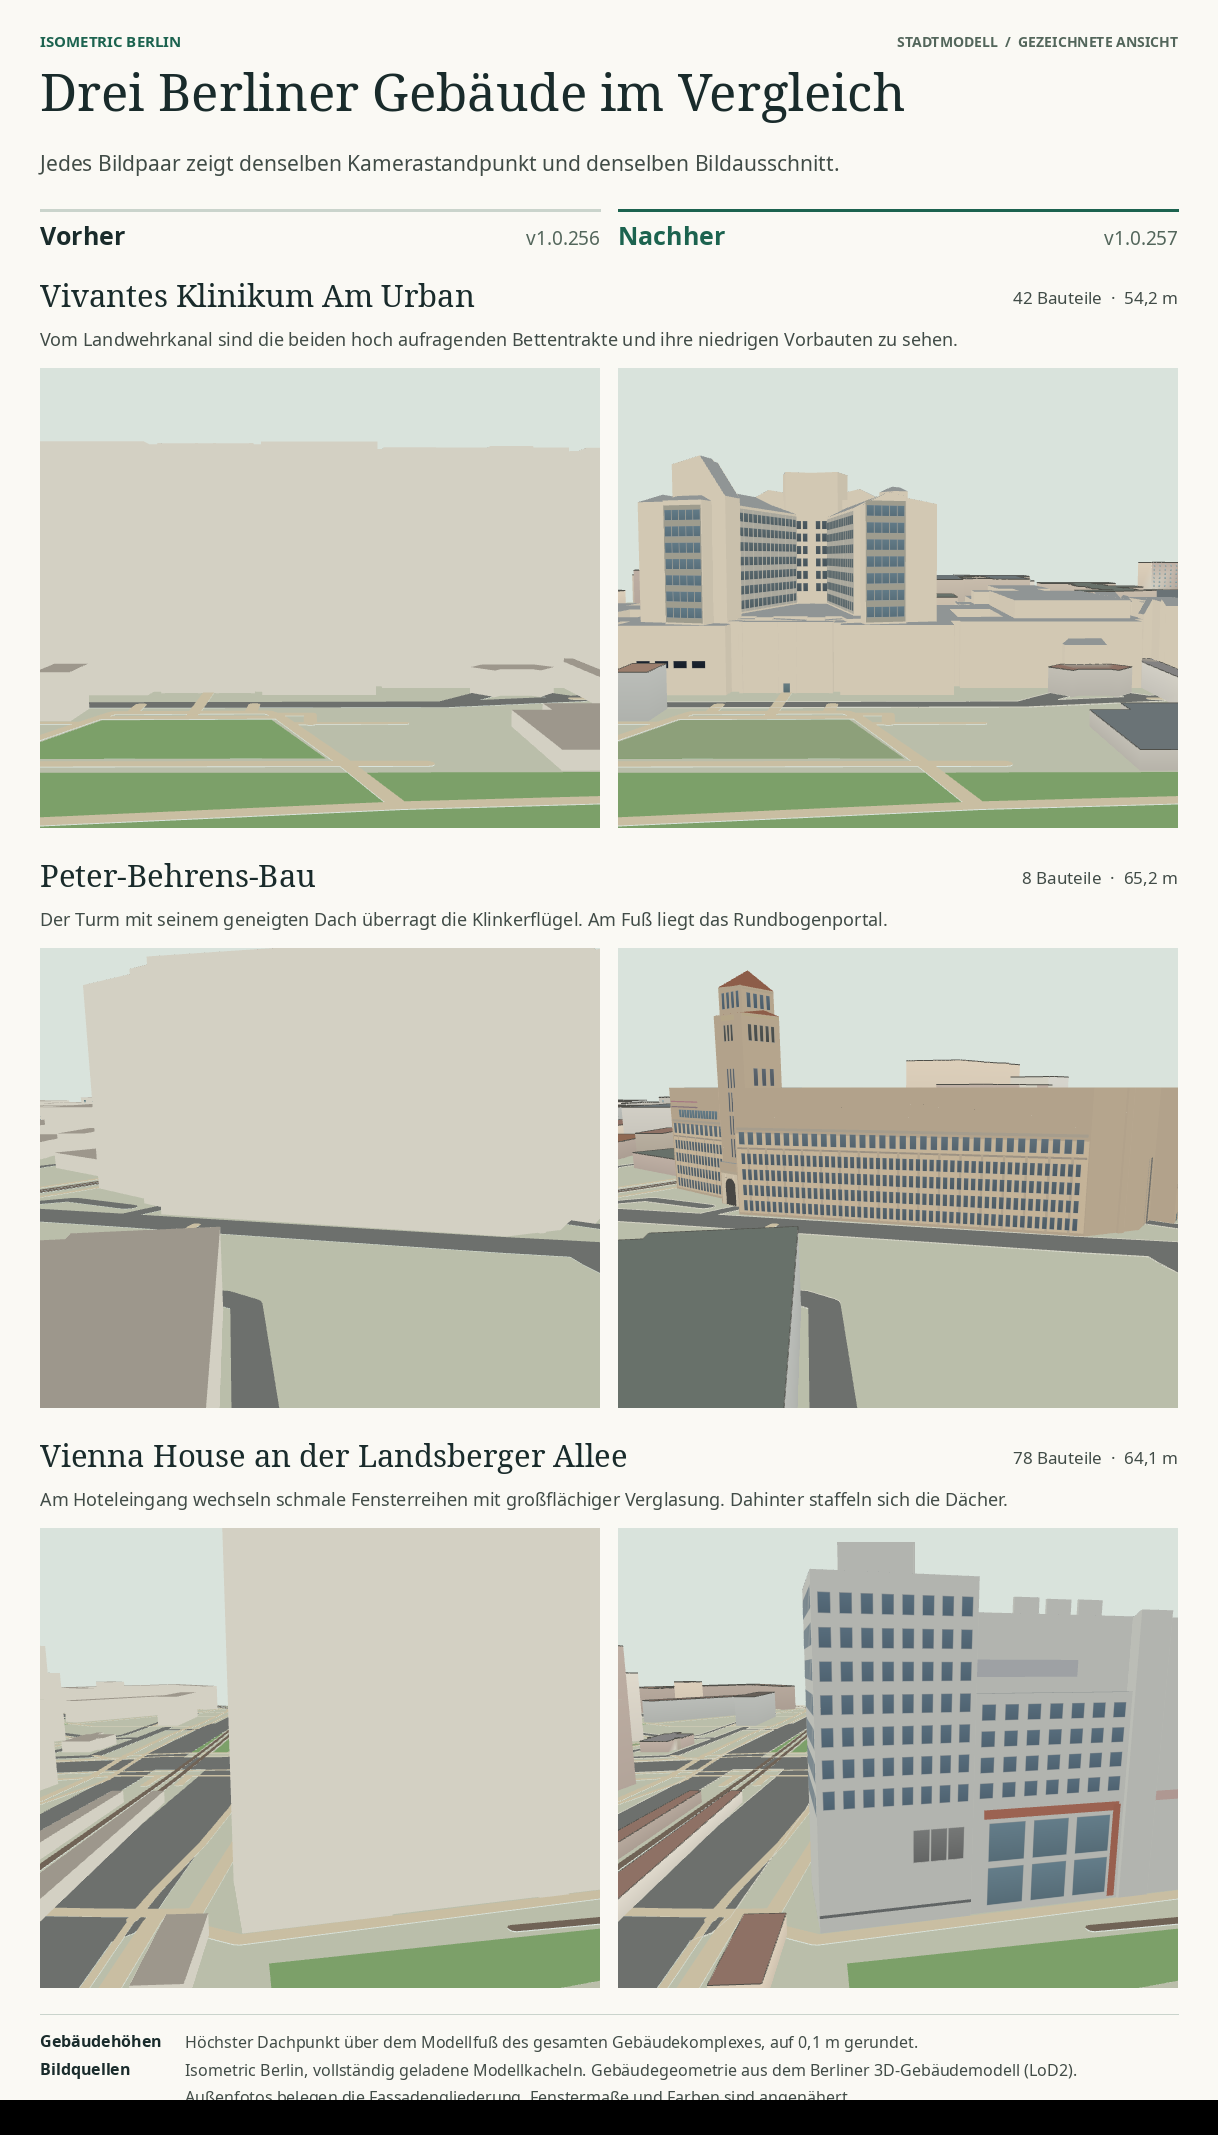
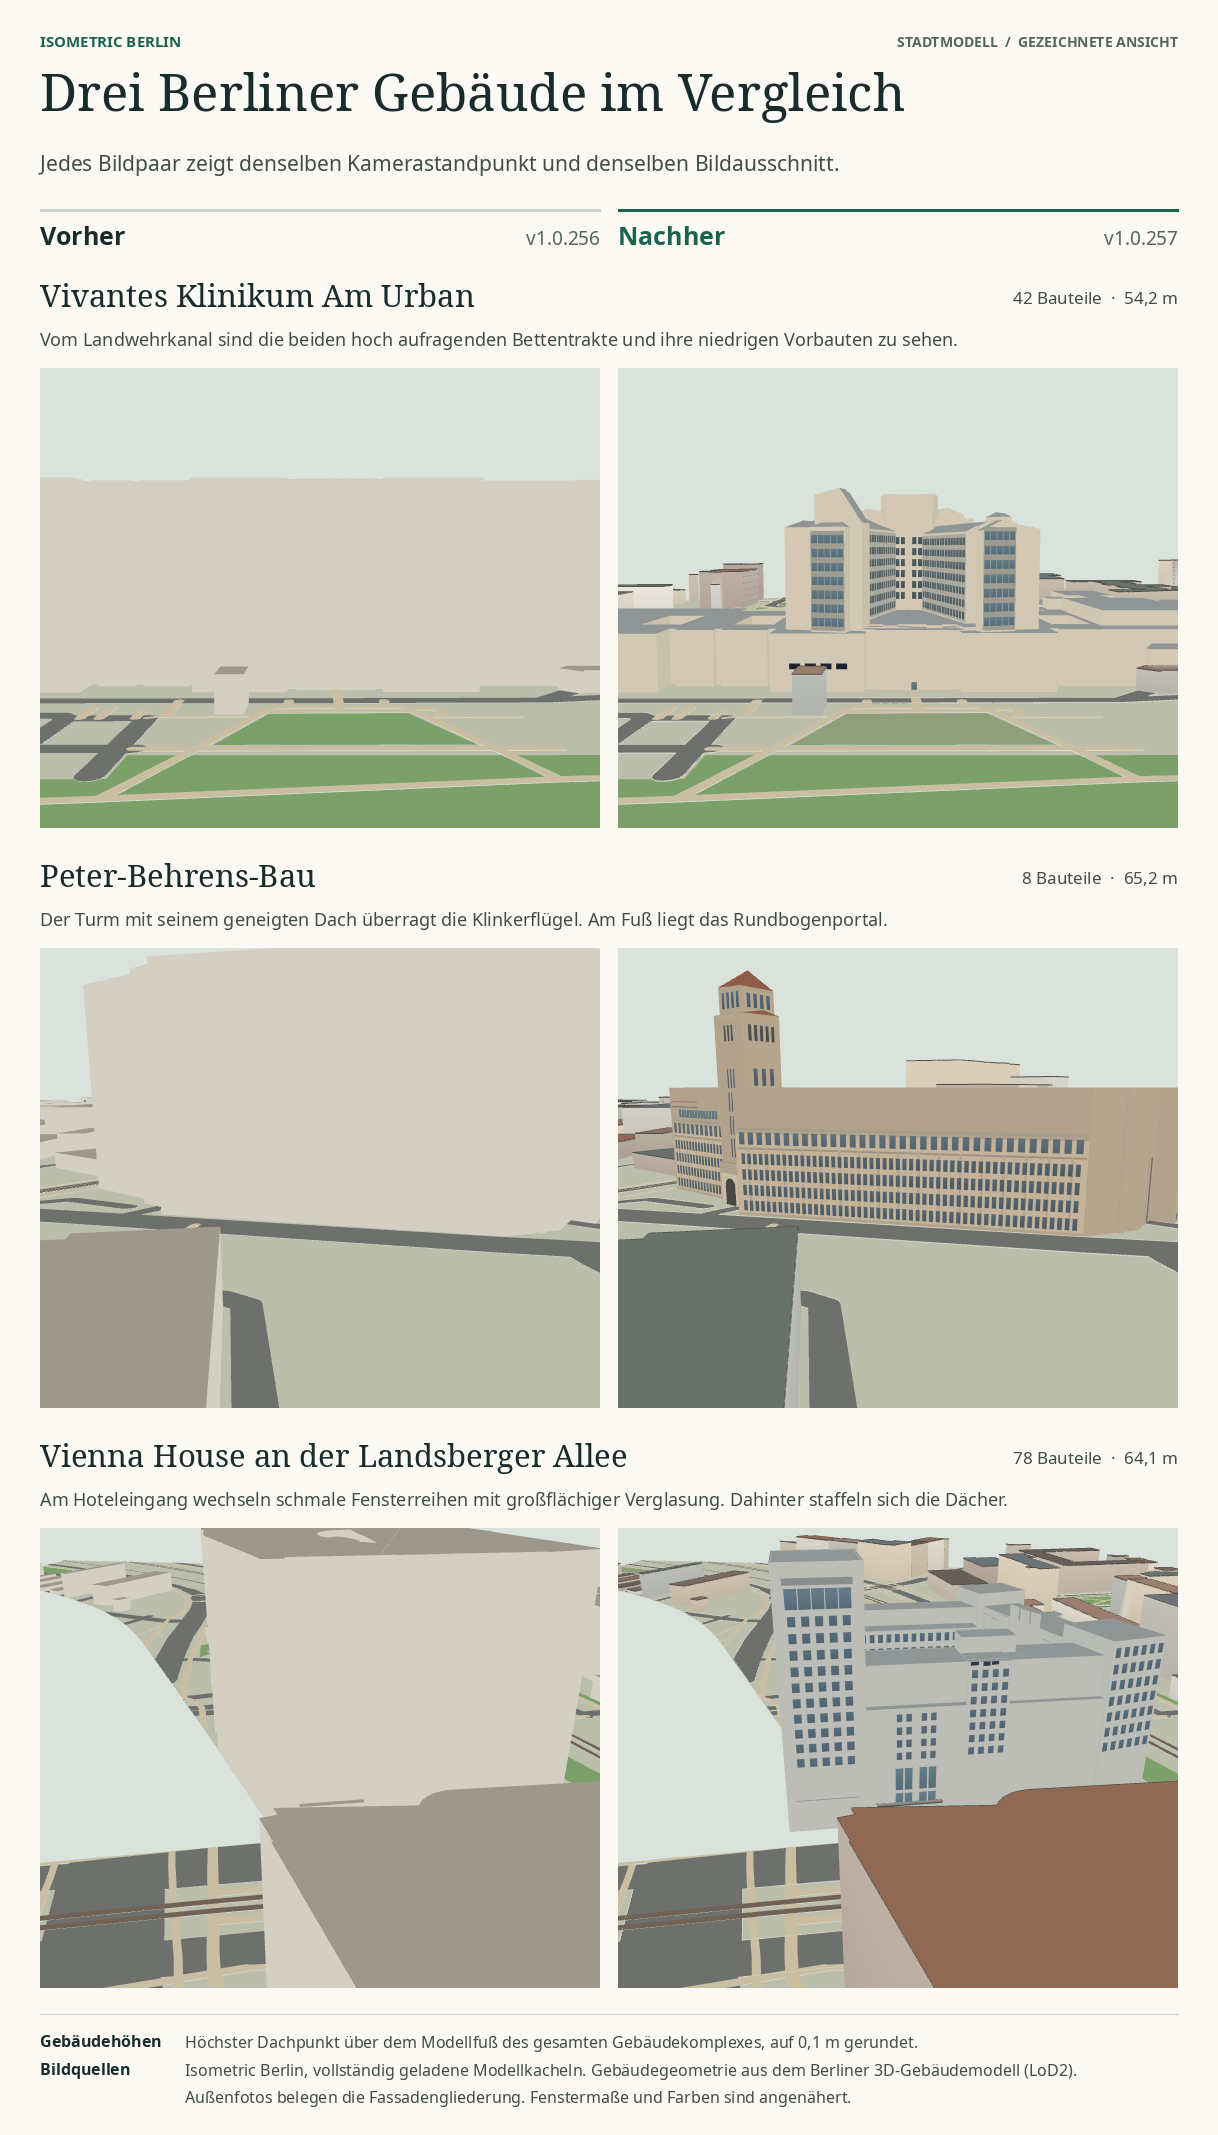
Show the complete surveyed buildings and verify the released camera links

Changed region(s): [[0.0, 0.711, 1.0, 1.0], [0.0312, 0.2164, 0.9672, 0.4019], [0.0312, 0.1855, 0.4992, 0.2473]]

diff --git a/docs/grosse-gebaeude-fassaden-v377.md b/docs/grosse-gebaeude-fassaden-v377.md
@@ -26,7 +26,7 @@ Drei Direktansichten öffnen die Kamera an einer bearbeiteten Außenwand. [Klini
 
 ![Drei Ansichten vor und nach der Fassadenüberarbeitung, einschließlich des abgestuften Turms des Peter-Behrens-Baus](grosse-gebaeude-vorher-nachher-v377.webp)
 
-Für alle 50 Gebäude wurde die Änderung mit derselben Kamera in der gezeichneten Ansicht und im Blockmodus gerendert. In allen 100 Bildpaaren waren an dem jeweils geprüften Gebäude Änderungen sichtbar.
+Für alle 50 Gebäude wurde die Änderung mit derselben Kamera in der gezeichneten Ansicht und im Blockmodus gerendert. In allen 100 Bildpaaren waren an dem jeweils geprüften Gebäude Änderungen sichtbar. Die drei Direktlinks wurden zusätzlich im gepackten Viewer geöffnet. In Chromium erschienen beim Peter-Behrens-Bau alle vier Gebäudekacheln am selben Kamerastandpunkt. In der mobilen WebKit-Prüfung öffnete der Hotel-Link die verglaste Eingangsfront.
 
 Die kompakte Offline-ZIP wächst gegenüber v1.0.256 um 190.000 Bytes auf 777.157.717 Bytes. Die Standard-ZIP wächst um 190.001 Bytes auf 956.739.930 Bytes. Beim ersten Seitenaufruf wächst das direkt eingebundene JavaScript um 311 Bytes vor Transportkompression. Die Fassaden und die vier Gebäudehüllen lädt der Viewer nach Bedarf. Eine Ladezeit auf individuellen Endgeräten wurde für diese Runde nicht gemessen.
 
